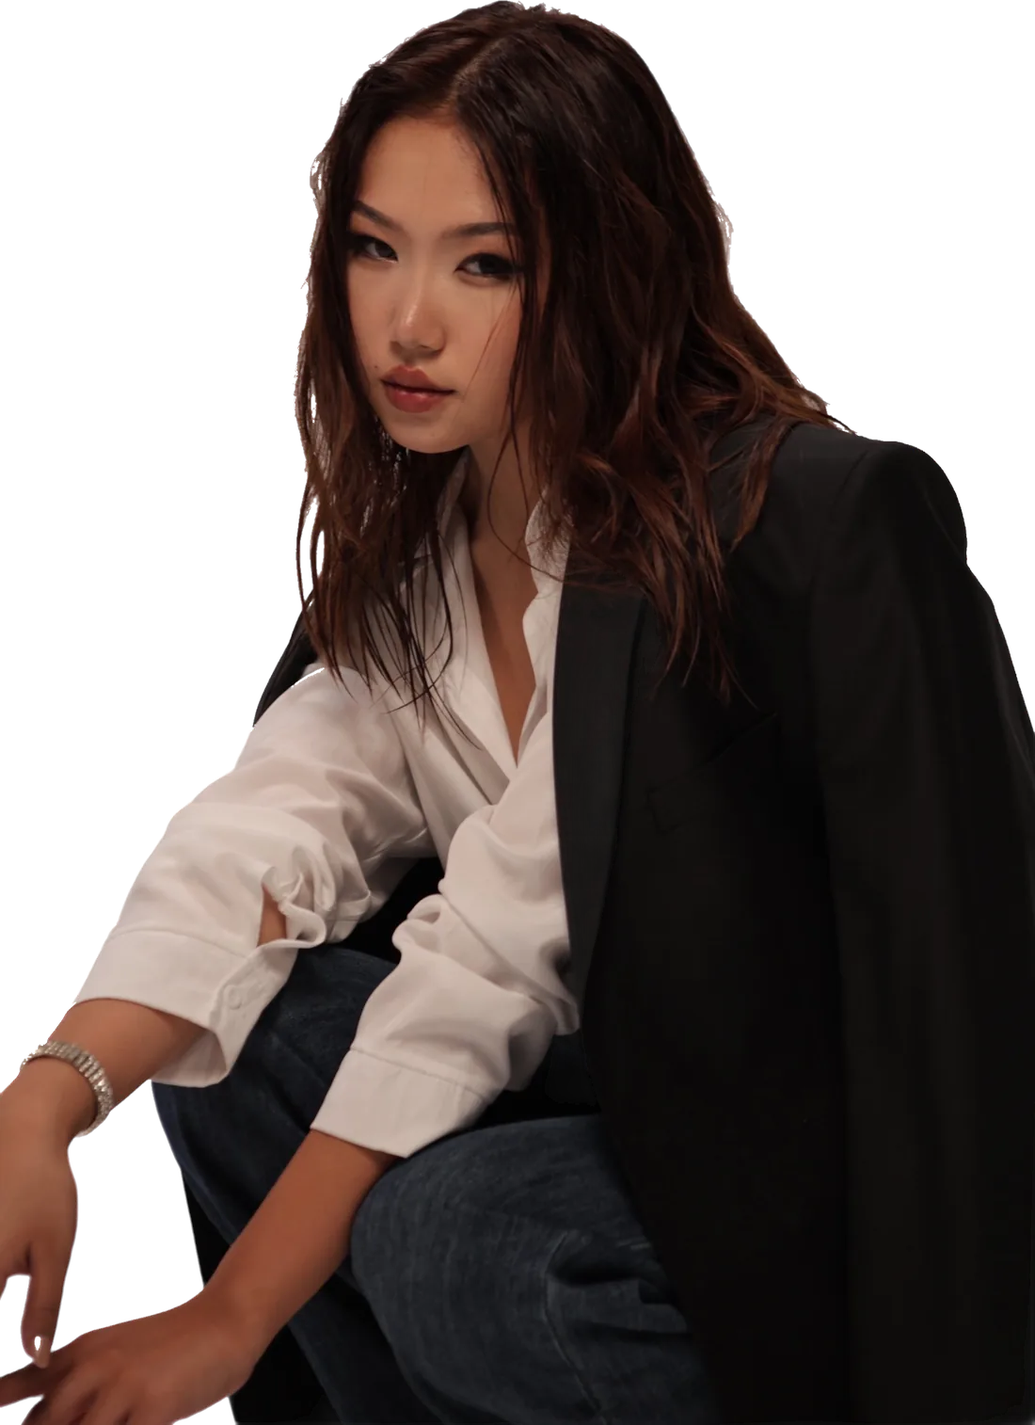
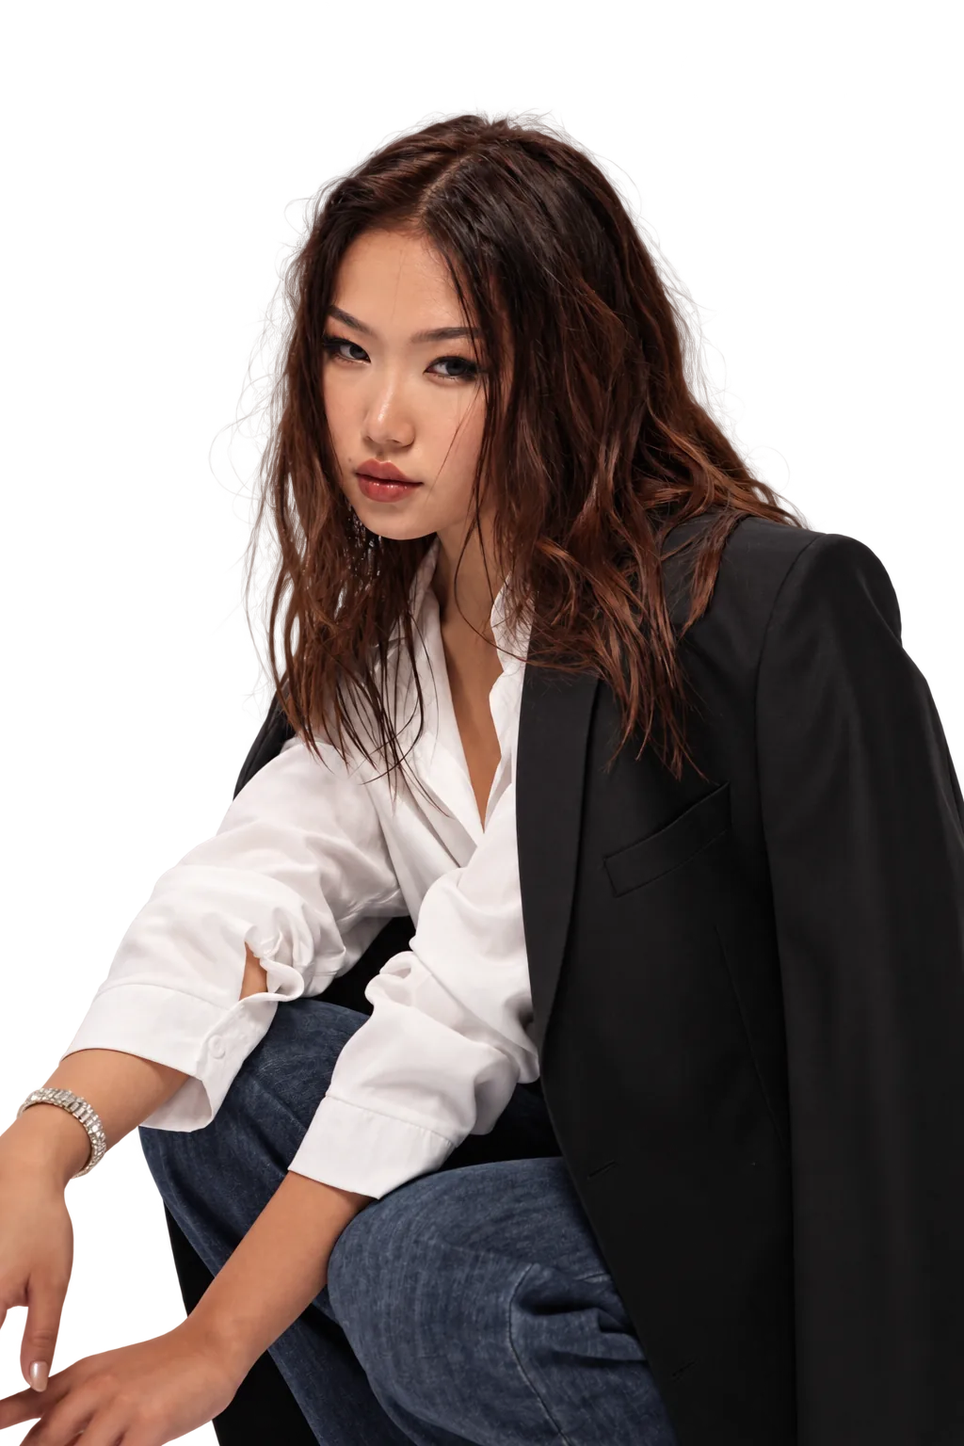
asd

diff --git a/index.html b/index.html
@@ -109,6 +109,10 @@ b{font-weight:700}
 .grid-3{grid-template-columns:1fr}
 @media (min-width:600px){.grid-3{grid-template-columns:repeat(2,minmax(0,1fr))}}
 @media (min-width:1024px){.grid-3{grid-template-columns:repeat(3,minmax(0,1fr))}}
+.grid-4{grid-template-columns:1fr}
+@media (min-width:600px){.grid-4{grid-template-columns:repeat(2,minmax(0,1fr))}}
+@media (min-width:1024px){.grid-4{grid-template-columns:repeat(4,minmax(0,1fr))}}
+@media (min-width:600px){.grid-4 .pain--note{grid-column:span 2}}
 
 /* ---------- Фото ---------- */
 .photo{position:relative;overflow:hidden;border-radius:var(--r);background:var(--ph);border:2px dashed var(--num)}
@@ -142,6 +146,7 @@ b{font-weight:700}
 .cover__dash{font-size:.5em;vertical-align:.38em}
 .cover__script{color:var(--ink)!important;font-size:clamp(40px,7vw,140px);line-height:1}
 .cover__photo{position:relative;z-index:3;width:70vw;max-width:460px;aspect-ratio:600/930;margin-top:-40px}
+@media (max-width:1023.98px){.cover__photo.is-loaded{margin-top:calc(clamp(56px,13vw,200px) * -1.75 - clamp(18px,3vw,32px))}}
 .cover__photo:not(.is-loaded){z-index:1}
 .cover__lead{font-size:var(--fs-lead);line-height:1.4;max-width:34ch;color:var(--ink);position:relative;z-index:4}
 .cover__foot{display:flex;flex-direction:column;align-items:center;gap:6px;font-weight:700;font-size:clamp(16px,1.5vw,22px);color:var(--bordo);position:relative;z-index:4}
@@ -232,26 +237,20 @@ b{font-weight:700}
 @media (min-width:1100px){.speakers{grid-template-columns:repeat(3,minmax(0,1fr))}}
 
 /* ---------- 12. Подарки ---------- */
-.gifts{list-style:none;padding:0;display:grid;gap:clamp(14px,1.6vw,22px) clamp(24px,4vw,56px);grid-template-columns:1fr}
+.gifts{list-style:none;padding:0;display:grid;gap:var(--gap);grid-template-columns:1fr}
 @media (min-width:900px){.gifts{grid-template-columns:repeat(2,minmax(0,1fr))}}
-.gift{display:flex;gap:clamp(12px,1.4vw,20px);align-items:flex-start;font-size:clamp(16px,1.6vw,24px);line-height:1.4}
-.gift svg{flex:none;width:clamp(28px,2.4vw,40px);height:auto;margin-top:-.1em;margin-inline:calc((clamp(52px,4.4vw,64px) - clamp(28px,2.4vw,40px)) / 2)}
-.gift--person{align-items:center}
-.gift__ava{flex:none;width:clamp(52px,4.4vw,64px);height:clamp(52px,4.4vw,64px);border-radius:50%;object-fit:cover;border:3px solid var(--bordo);background:var(--ph)}
-.total{margin-top:var(--head-gap);display:flex;flex-direction:column;align-items:center;text-align:center;gap:8px}
-.total .h3{font-size:clamp(32px,4.2vw,64px);line-height:1;color:var(--milk)}
-.total p{font-weight:600;color:var(--rose);font-size:var(--fs-lead);line-height:1.35}
-@media (min-width:768px){
- .total{flex-direction:row;justify-content:space-between;text-align:right;gap:24px}
- .total p{max-width:22ch}
-}
+.gift{display:flex;gap:clamp(12px,1.4vw,20px);align-items:flex-start;margin:0;font-size:clamp(16px,1.6vw,24px);line-height:1.4}
+.gift svg{flex:none;width:clamp(28px,2.4vw,40px);height:auto;margin-top:-.1em}
+.gift--secret{grid-column:1 / -1;align-items:center}
 
 /* ---------- 13. Результат ---------- */
 .results{display:grid;gap:var(--gap);grid-template-columns:1fr}
 @media (min-width:600px){.results{grid-template-columns:repeat(2,minmax(0,1fr))}}
 @media (min-width:1024px){.results{grid-template-columns:repeat(4,minmax(0,1fr))}}
-.result{font-weight:600;font-size:clamp(17px,1.5vw,22px);line-height:1.35;border-radius:var(--r-sm)}
-.result--note{display:flex;align-items:center;font-family:var(--f-script);font-weight:400;font-size:clamp(28px,2.6vw,40px);line-height:1.15;border-radius:var(--r-sm)}
+.result{display:flex;align-items:center;min-height:clamp(96px,9vw,140px);font-weight:600;font-size:clamp(17px,1.5vw,22px);line-height:1.35;border-radius:var(--r-sm)}
+.result{padding:clamp(22px,1.8vw,32px)}
+.result p,.result--note p{min-width:0;text-wrap:balance;hyphens:auto;overflow-wrap:break-word}
+.result--note{display:flex;align-items:center;min-height:clamp(96px,9vw,140px);font-family:var(--f-script);font-weight:400;font-size:clamp(28px,2.6vw,40px);line-height:1.15;border-radius:var(--r-sm)}
 
 /* ---------- 14. Формат ---------- */
 .stats{display:grid;gap:clamp(20px,3vw,48px);grid-template-columns:1fr;margin-bottom:var(--head-gap)}
@@ -283,11 +282,11 @@ b{font-weight:700}
 .final__body{display:flex;flex-direction:column;gap:clamp(16px,2.2vw,32px);align-items:flex-start}
 .final__title{font-size:clamp(48px,8vw,120px);line-height:.95}
 .final__sub{font-weight:600;font-size:clamp(20px,2.4vw,40px);line-height:1.3;color:var(--rose)}
-.final__script{font-family:var(--f-script);font-size:clamp(36px,4.5vw,80px);line-height:1.1;color:var(--milk)}
-.final{align-items:end}
+.final__script{font-family:var(--f-script);font-size:clamp(28px,3.2vw,52px);line-height:1.15;color:var(--milk)}
+.final__cta{font-weight:700;font-size:clamp(18px,1.8vw,26px);line-height:1.35;color:var(--milk);margin-top:calc(-1 * clamp(4px,1vw,16px))}
+.final{align-items:center}
 .final__body{align-self:center}
-.final__photo{width:80vw;max-width:480px;margin-inline:auto;aspect-ratio:1717/2363}
-.final__photo.is-loaded{margin-bottom:calc(-1 * var(--pad-y))}
+.final__photo{width:80vw;max-width:480px;margin-inline:auto;aspect-ratio:1024/1536;align-self:center}
 .final__photo.is-loaded img{-webkit-mask-image:linear-gradient(to right,transparent 0,#000 8%,#000 86%,transparent 100%);mask-image:linear-gradient(to right,transparent 0,#000 8%,#000 86%,transparent 100%)}
 #final{overflow:hidden}
 .final .pill{width:100%;text-align:center;font-size:clamp(17px,1.7vw,28px)}
@@ -368,10 +367,11 @@ b{font-weight:700}
 <section class="block bg-milk reveal" id="pains">
  <div class="wrap">
   <div class="head"><h2 class="h2">Знакомо?</h2></div>
-  <div class="grid grid-3">
+  <div class="grid grid-4">
    <div class="card card--bordo pain"><p>Видео красивые, но не залетают, и блог не приносит денег</p></div>
    <div class="card card--bordo pain"><p>Давно хочешь вести блог, но стесняешься камеры</p></div>
-   <div class="card card--bordo pain"><p>Ведёшь чужие аккаунты, а свой чек годами не растёт</p></div>
+   <div class="card card--bordo pain"><p>Ведёшь чужие аккаунты, а свой блог так и не начала. И чек годами не растёт</p></div>
+   <div class="card card--bordo pain"><p>Хочешь вести блог как настоящий блогер, но не знаешь, с чего начать</p></div>
    <div class="card card--bordo pain"><p>Есть бизнес, но о тебе как о личности никто не знает</p></div>
    <div class="card card--bordo pain"><p>Хочешь свой доход, но не понимаешь, с чего начать</p></div>
    <div class="card card--line pain pain--note"><p>Если хотя бы один пункт про тебя, это обучение для тебя</p></div>
@@ -388,7 +388,7 @@ b{font-weight:700}
   </div>
   <div class="grid grid-3">
    <div class="card card--milk who"><h3 class="h3">Эксперт</h3><p>Знаешь своё дело, но о тебе никто не знает</p></div>
-   <div class="card card--milk who"><h3 class="h3">Специалист</h3><p>СММ, мобилограф или монтажёр, который хочет поднять чек и вести свой блог</p></div>
+   <div class="card card--milk who"><h3 class="h3">Специалист</h3><p>Маркетолог, СММ, продюсер, мобилограф или эксперт в любой сфере. Хочешь поднять чек и вести свой блог</p></div>
    <div class="card card--milk who"><h3 class="h3">Предприниматель</h3><p>Бизнес есть, а личного бренда нет</p></div>
    <div class="card card--milk who"><h3 class="h3">Домохозяйка или мама</h3><p>Хочешь свой доход и реализацию</p></div>
    <div class="card card--milk who"><h3 class="h3">Красивые видео</h3><p>Снимаешь красиво, но это пока не приносит результата</p></div>
@@ -433,10 +433,9 @@ b{font-weight:700}
  </div>
 </section>
 
-<!-- 7. Мой кейс -->
+<!-- 7. Кейс -->
 <section class="block bg-bordo reveal" id="case">
  <div class="wrap stack">
-  <p class="script">Мой кейс</p>
   <h2 class="num case__num"><span>2 000 →</span> <span>11 000</span></h2>
   <p class="case__sub soft">подписчиков за лето. Без единой продажи. Только на своей личности.</p>
   <div class="card card--milk">
@@ -612,21 +611,51 @@ b{font-weight:700}
    </article>
    <article class="card--milk speaker" role="listitem">
     <figure class="photo"><img src="assets/img/speaker-sezim-video.webp" alt="Сезим, видеограф" loading="lazy"><span class="photo__ph">[Фото: Сезим, видеограф]</span></figure>
-    <p class="script">Видеограф</p>
+    <p class="script">Видеограф и маркетолог в кино</p>
     <h3 class="h3">Сезим</h3>
-    <p>Менеджер по блогерам в кино, моушн-дизайнер и монтажёр. Расскажет, с какими блогерами сотрудничать и на что делать упор.</p>
+    <p>Менеджер по блогерам в кино, моушн-дизайнер и монтажёр. Откроет, по каким признакам выбирают блогеров для коллабораций, и расскажет, как упаковать себя, чтобы тебя звали на премьеры и закрытые мероприятия.</p>
    </article>
    <article class="card--milk speaker" role="listitem">
     <figure class="photo"><img src="assets/img/speaker-sezim-marketing.webp" alt="Сезим, маркетолог" loading="lazy"><span class="photo__ph">[Фото: Сезим, маркетолог]</span></figure>
     <p class="script">Маркетолог</p>
     <h3 class="h3">Сезим</h3>
-    <p>На рынке с 2019 года, владелица магазина одежды и магазина постельного белья.</p>
+    <p>На рынке с 2019 года. Владелица магазина одежды и магазина постельного белья. С нуля сама выстроила систему внутри бизнеса, сделала продающий маркетинг и за короткое время вышла на большой доход. Подробно расскажет на уроке.</p>
    </article>
    <article class="card--milk speaker" role="listitem">
     <figure class="photo photo--baga"><img src="assets/img/speaker-baga.webp" alt="BAGA" loading="lazy"><span class="photo__ph">[Фото: BAGA]</span></figure>
     <p class="script">ИИ-видео</p>
     <h3 class="h3">BAGA</h3>
-    <p>Создание видео с помощью искусственного интеллекта.</p>
+    <p>Продюсер и контент-креатор, автор своего обучения по ИИ. Создаёт продающие видео, сценарии и реалистичные ролики с помощью искусственного интеллекта. Расскажет, как применить ИИ в твоём блоге.</p>
+   </article>
+   <article class="card--milk speaker" role="listitem">
+    <figure class="photo"><img src="assets/img/speaker-indira.webp" alt="Индира" loading="lazy"><span class="photo__ph">[Фото: Индира]</span></figure>
+    <p class="script">Фотограф, модель, продюсер</p>
+    <h3 class="h3">Индира</h3>
+    <p>Эксперт в своей сфере. Научит позировать и уверенно чувствовать себя в кадре и за кадром. Проведёт личную съёмку, и ты увидишь изнутри, как проходят профессиональные фотосессии.</p>
+   </article>
+   <article class="card--milk speaker" role="listitem">
+    <figure class="photo"><img src="assets/img/speaker-medina.webp" alt="Медина" loading="lazy"><span class="photo__ph">[Фото: Медина]</span></figure>
+    <p class="script">Бьюти-съёмка</p>
+    <h3 class="h3">Медина</h3>
+    <p>Визажист и стилист. Вместе с ней проведём бьюти-съёмку с эффектным переходом: макияж, причёска и готовый контент для твоего блога.</p>
+   </article>
+   <article class="card--milk speaker" role="listitem">
+    <figure class="photo"><img src="assets/img/speaker-bayelya.webp" alt="Байэля" loading="lazy"><span class="photo__ph">[Фото: Байэля]</span></figure>
+    <p class="script">Хореограф и маркетолог</p>
+    <h3 class="h3">Байэля</h3>
+    <p>Известный хореограф, владеет множеством танцевальных стилей. Проведёт мастер-класс по танцам специально для нас: прочувствуем свободу тела и женскую энергию, раскрепостимся и разрешим себе быть смелой и дерзкой.</p>
+   </article>
+   <article class="card--milk speaker" role="listitem">
+    <figure class="photo"><img src="assets/img/speaker-daniyar.webp" alt="Данияр" loading="lazy"><span class="photo__ph">[Фото: Данияр]</span></figure>
+    <p class="script">Быстрый рост аудитории</p>
+    <h3 class="h3">Данияр</h3>
+    <p>Контент-мейкер, продюсер и блогер, 50 тыс. подписчиков в Instagram. Поделится своими лайфхаками, как быстро набрать аудиторию.</p>
+   </article>
+   <article class="card--milk speaker" role="listitem">
+    <figure class="photo"><img src="assets/img/speaker-daniel.webp" alt="Даниэль" loading="lazy"><span class="photo__ph">[Фото: Даниэль]</span></figure>
+    <p class="script">Монтаж и цвет</p>
+    <h3 class="h3">Даниэль</h3>
+    <p>Мобилограф. Проведёт урок по монтажу и цветокоррекции: как сделать видео красивым и цельным прямо на телефоне.</p>
    </article>
   </div>
   <p class="speakers-note soft">А ещё вдохновляющие личности, которые расскажут свой путь и поделятся лайфхаками. Гости будут добавляться по ходу обучения.</p>
@@ -641,17 +670,12 @@ b{font-weight:700}
    <h2 class="h2">Входит в стоимость обучения</h2>
   </div>
   <ul class="gifts" role="list">
-   <li class="gift gift--person"><img class="gift__ava" src="assets/img/gift-indira.webp" alt="Индира" width="64" height="64" loading="lazy"><p><b>Личная фотосессия с Индирой:</b> стрит, студия и другие форматы</p></li>
-   <li class="gift gift--person"><img class="gift__ava" src="assets/img/gift-medina.webp" alt="Медина" width="64" height="64" loading="lazy"><p><b>Бьюти-съёмка с Мединой:</b> макияж, причёска и съёмка</p></li>
-   <li class="gift gift--person"><img class="gift__ava" src="assets/img/gift-bayelya.webp" alt="Байэль" width="64" height="64" loading="lazy"><p><b>Мастер-класс по танцам от Байэля:</b> женская энергия и свобода в теле</p></li>
-   <li class="gift gift--person"><img class="gift__ava" src="assets/img/gift-aida.webp" alt="Айда" width="64" height="64" loading="lazy"><p><b>Трансформационная игра «Главный герой»</b> с психологом Айдой</p></li>
-   <li class="gift"><svg viewBox="0 0 24 24" fill="none" stroke="#6E0F1F" stroke-width="2.6" stroke-linecap="round" stroke-linejoin="round" aria-hidden="true"><path d="m5 12.5 4.5 4.5L19 7.5"/></svg><p><b>Выездные съёмки:</b> отдыхаем на красивых локациях и уезжаем с готовым контентом</p></li>
-   <li class="gift"><svg viewBox="0 0 24 24" fill="none" stroke="#6E0F1F" stroke-width="2.6" stroke-linecap="round" stroke-linejoin="round" aria-hidden="true"><path d="m5 12.5 4.5 4.5L19 7.5"/></svg><p><b>Коллаборации с брендами</b> косметики, одежды и не только, прямо на обучении</p></li>
-   <li class="gift"><svg viewBox="0 0 24 24" fill="none" stroke="#6E0F1F" stroke-width="2.2" stroke-linejoin="round" aria-hidden="true"><path d="M12 3l2.7 5.6 6.1.8-4.5 4.2 1.1 6L12 16.8 6.6 19.6l1.1-6L3.2 9.4l6.1-.8z"/></svg><p><b>+ секретный подарок,</b> о котором узнаете на старте</p></li>
+   <li class="card card--line gift"><svg viewBox="0 0 24 24" fill="none" stroke="#6E0F1F" stroke-width="2.6" stroke-linecap="round" stroke-linejoin="round" aria-hidden="true"><path d="m5 12.5 4.5 4.5L19 7.5"/></svg><p><b>Трансформационная игра «Главный герой»</b> с психологом Айдой</p></li>
+   <li class="card card--line gift"><svg viewBox="0 0 24 24" fill="none" stroke="#6E0F1F" stroke-width="2.6" stroke-linecap="round" stroke-linejoin="round" aria-hidden="true"><path d="m5 12.5 4.5 4.5L19 7.5"/></svg><p><b>Выездные съёмки:</b> отдыхаем на красивых локациях и уезжаем с готовым контентом</p></li>
+   <li class="card card--line gift"><svg viewBox="0 0 24 24" fill="none" stroke="#6E0F1F" stroke-width="2.6" stroke-linecap="round" stroke-linejoin="round" aria-hidden="true"><path d="m5 12.5 4.5 4.5L19 7.5"/></svg><p><b>Коллаборации с брендами</b> косметики, одежды и не только, прямо на обучении</p></li>
+   <li class="card card--line gift"><svg viewBox="0 0 24 24" fill="none" stroke="#6E0F1F" stroke-width="2.6" stroke-linecap="round" stroke-linejoin="round" aria-hidden="true"><path d="m5 12.5 4.5 4.5L19 7.5"/></svg><p><b>Арт-вечер при свечах:</b> тёплая атмосфера, творчество и время для себя</p></li>
+   <li class="card card--bordo gift gift--secret"><svg viewBox="0 0 24 24" fill="none" stroke="#FBF8F6" stroke-width="2.2" stroke-linejoin="round" aria-hidden="true"><path d="M12 3l2.7 5.6 6.1.8-4.5 4.2 1.1 6L12 16.8 6.6 19.6l1.1-6L3.2 9.4l6.1-.8z"/></svg><p><b>Секретный подарок,</b> о котором узнаете на старте</p></li>
   </ul>
-  <div class="card card--bordo total">
-   <p class="h3">Более 30 000 сом</p>
-   <p>подарков уже внутри обучения</p>
   </div>
  </div>
 </section>
@@ -701,7 +725,7 @@ b{font-weight:700}
  <div class="wrap price">
   <p class="script">Стоимость обучения</p>
   <h2 class="num">100 000 сом</h2>
-  <p class="pill pill--light">Включая подарки на сумму более 30 000 сом</p>
+  <p class="pill pill--light">Фотосессия, бьюти-съёмка, мастер-класс по танцам и подарки уже включены</p>
  </div>
 </section>
 
@@ -728,7 +752,8 @@ b{font-weight:700}
   <div class="final__body">
    <h2 class="h2 final__title">7 девушек<br>уже с нами</h2>
    <p class="final__sub">Старт 17 октября. Присоединяйся.</p>
-   <p class="final__script">Твоя главная роль начинается сейчас</p>
+   <p class="final__script">Мечтать о блоге можно годами или начать вести его уже сегодня. Ведь от жизни твоей мечты тебя отделяет только бездействие.</p>
+   <p class="final__cta">Начни сиять. Жду именно тебя 💋</p>
    <a class="pill pill--light" href="https://instagram.com/kuttububu" target="_blank" rel="noopener">Instagram: @kuttububu</a>
   </div>
   <figure class="photo photo--cutout photo--on-bordo final__photo">
